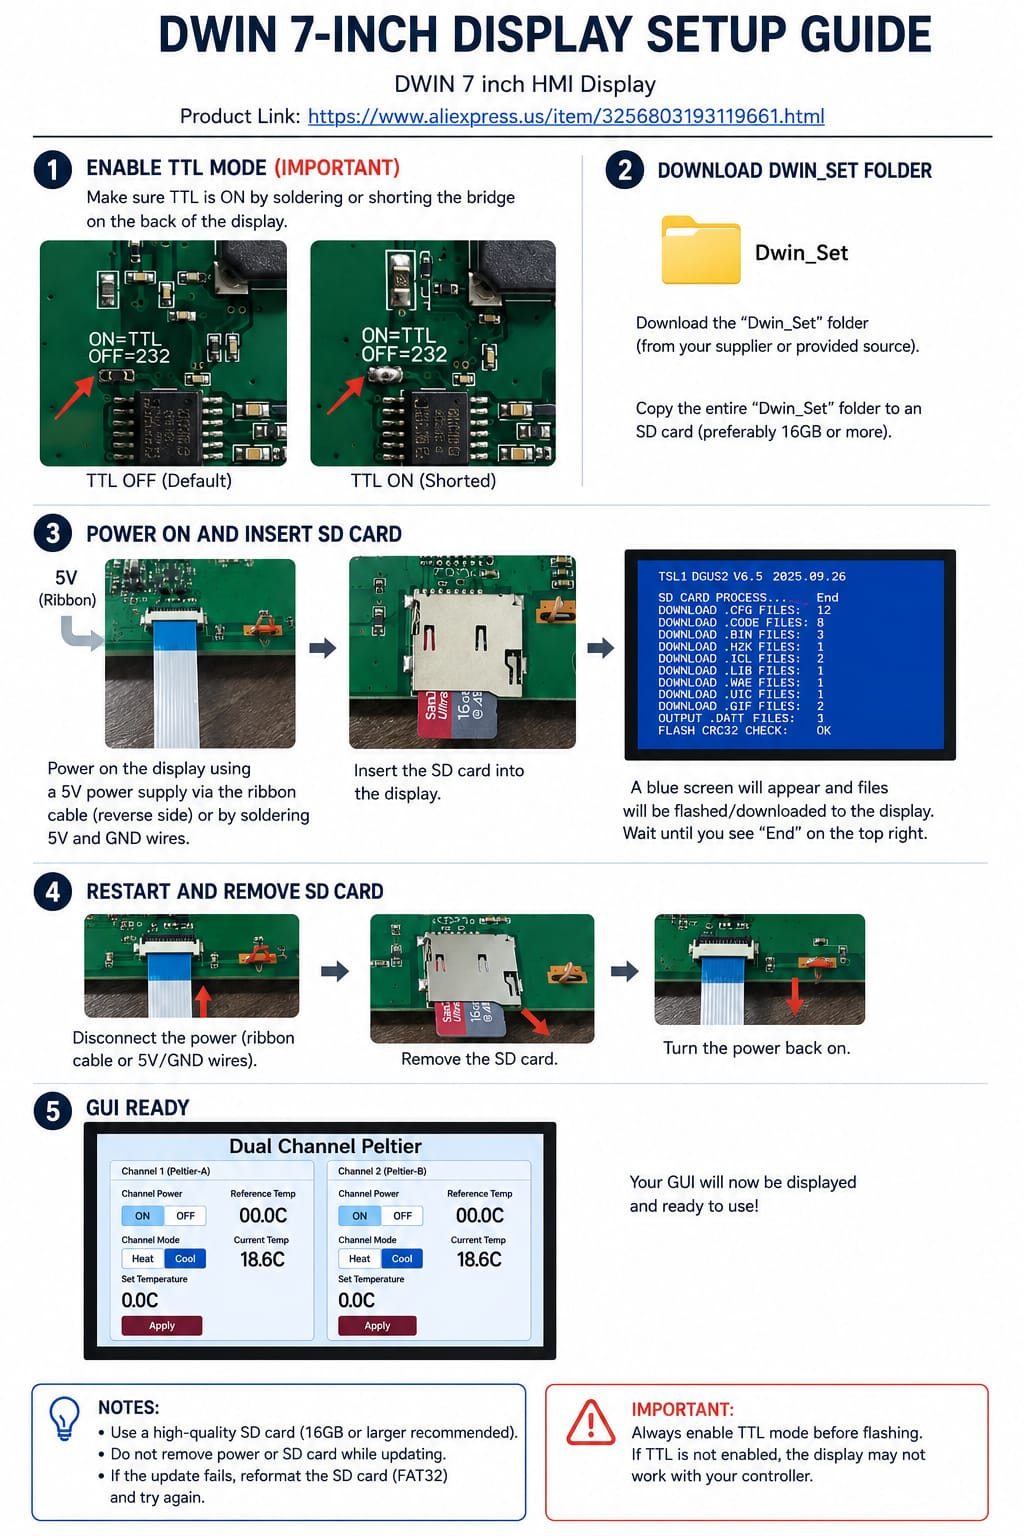
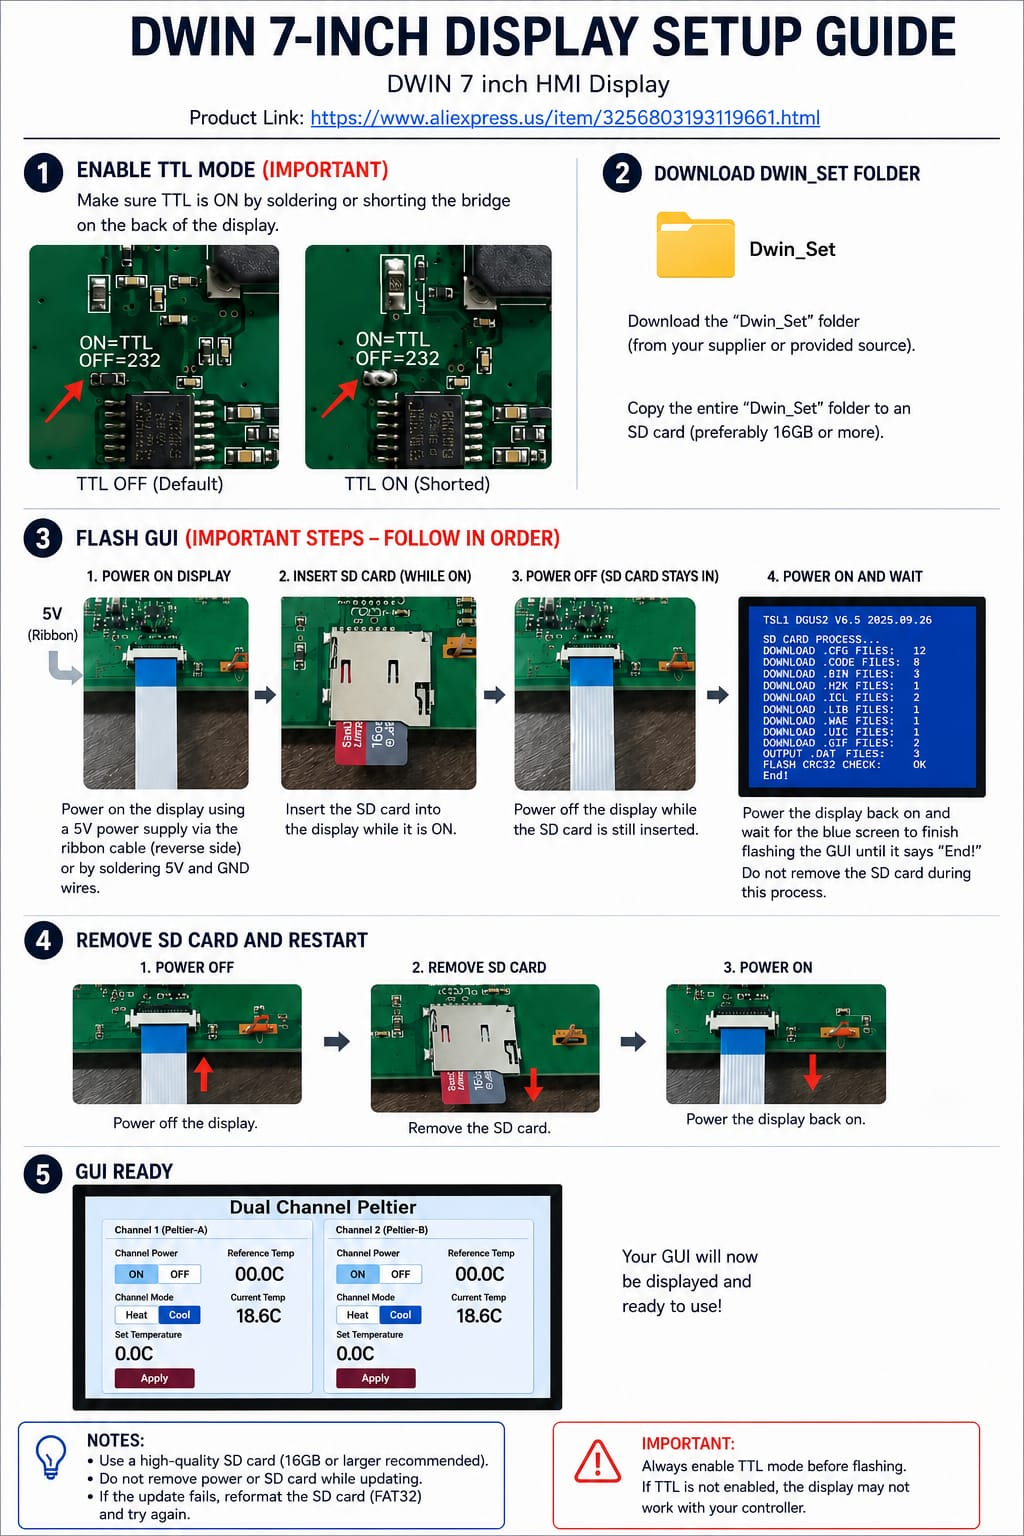
fix GUI setup step3 problem

diff --git a/GUI/README.md b/GUI/README.md
@@ -1,11 +1,11 @@
 ## 1. Enable TTL Mode
 
-Before flashing the display, make sure the display is set to **TTL mode**.
+Before using the display with the ESP32 or other microcontrollers:
 
-The solder bridge on the back of the display controls the communication mode:
-
+Locate the TTL/232 jumper pads on the back of the display.
+Enable **TTL mode** by soldering or shorting the bridge labeled:
 - **ON = TTL**
-- **OFF = RS232**
+- **OFF = 232**
 
 ### TTL OFF Default
 
@@ -19,41 +19,38 @@ The solder bridge on the back of the display controls the communication mode:
 
 **Figure:** Short the bridge to enable TTL mode.
 
-> **Important:** TTL mode must be enabled before connecting the display to the ESP32 controller.
+> **Important:** If TTL mode is not enabled, the display may not communicate correctly with the controller.
 
 ---
 
-## 2. Download the DWIN_SET Folder
+## 2. Prepare the SD Card
 
 <img src="./GUI_images/3.png" width="250">
 
-Download or copy the complete `Dwin_Set` folder from the provided GUI files.
-
-Then copy the entire `Dwin_Set` folder to an SD card.
-
-Recommended SD card:
-
-- 16 GB or larger
-- FAT32 format
+Download the Dwin_Set folder provided with your GUI files.
+Use a high-quality SD card (16GB or larger recommended).
+Format the SD card to FAT32 if needed.
+Copy the entire Dwin_Set folder to the root directory of the SD card.
 - High-quality SD card preferred
 
 ---
 
-## 3. Power On the Display and Insert the SD Card
+## 3. Flash the GUI to the Display
 
 ### Step 1: Power the Display
 
+Power the display using:
+
 <img src="./GUI_images/4.png" width="350">
 
-Power on the display using a 5 V power supply.
+The ribbon cable power connection, or
+5V and GND wires.
 
-The display can be powered through the ribbon cable on the reverse side or through soldered 5 V and GND wires.
-
-### Step 2: Insert the SD Card
+### Step 2: Insert the SD Card WHILE the Display is ON
 
 <img src="./GUI_images/5.png" width="350">
 
-Insert the SD card containing the `Dwin_Set` folder into the SD card slot on the display.
+Insert the SD card into the display while the display remains powered ON..
 
 ### Step 3: Wait for the Update Screen
 
@@ -80,6 +77,8 @@ After the update is complete, disconnect the power from the display.
 <img src="./GUI_images/8.png" width="350">
 
 Remove the SD card from the display.
+
+**Important:( Keep the sd card inside and turn off the display while the Sd card in inside then turn it back on ) And keep everything else the same**
 
 ### Step 3: Power the Display Again
 
